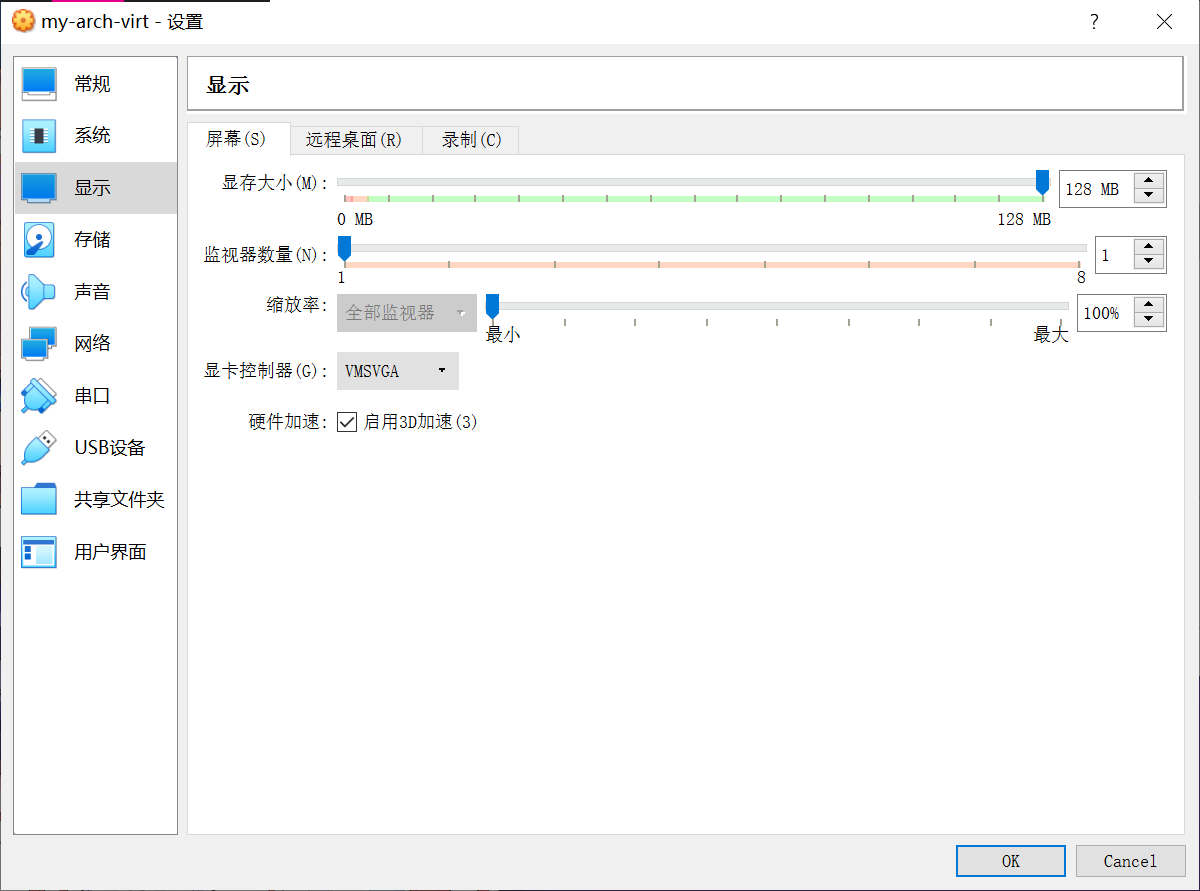
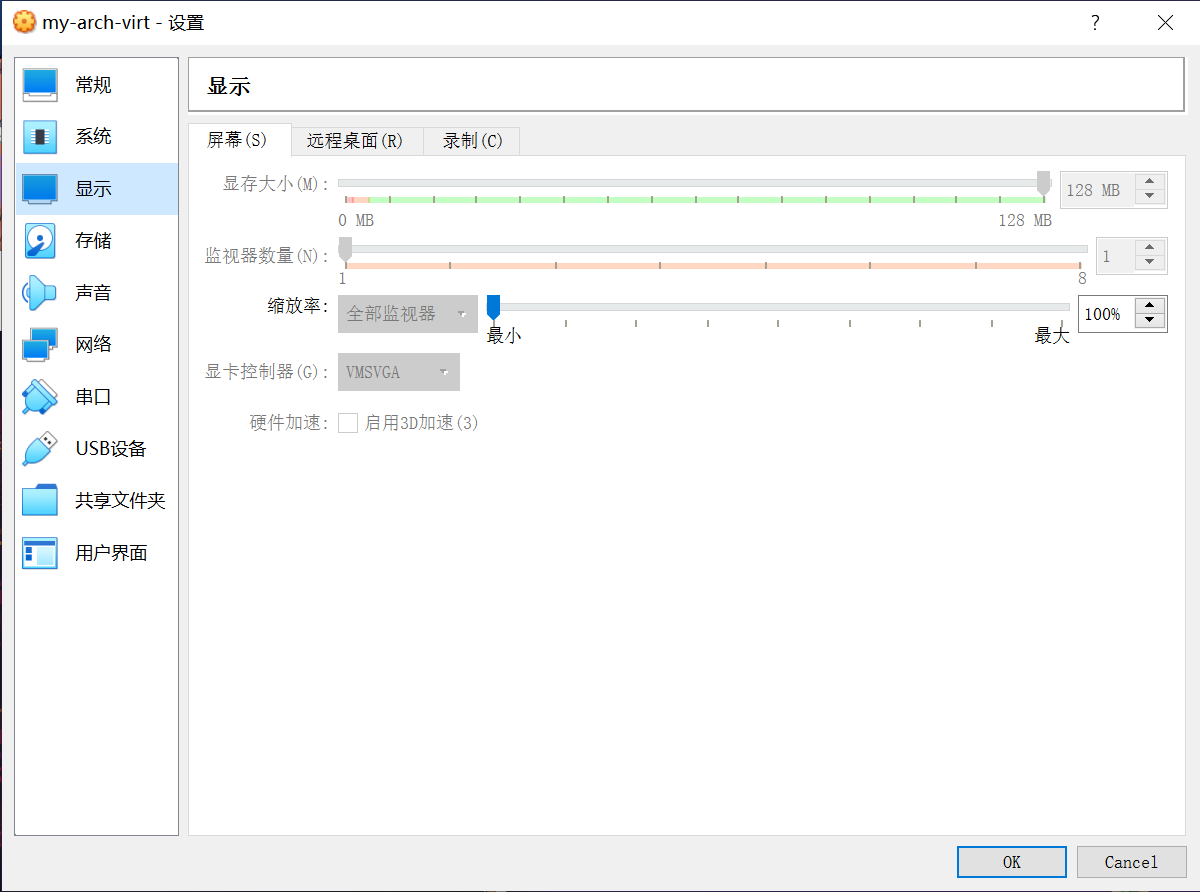
update

diff --git a/docs/.vuepress/styles/index.scss b/docs/.vuepress/styles/index.scss
@@ -22,7 +22,7 @@
   --c-text-light: #3a5169;
   --c-text-lighter: #4e6e8e;
   --c-text-lightest: #6a8bad;
-  --c-text-quote: #999;
+  --c-text-quote: var(--c-text-light);
 
   // border colors
   --c-border: #eaecef;

diff --git a/docs/prepare/head-on-blow.md b/docs/prepare/head-on-blow.md
@@ -1,5 +1,6 @@
 ---
 prev: /prologue.md
+sidebarDepth: 2
 ---
 
 # archlinux 真的适合我吗？
@@ -12,9 +13,11 @@ prev: /prologue.md
 >
 > 1. 对于 Linux 萌新来说，archlinux 真的适合作为 TA 们的入门发行版吗？
 
+## 三大判断标准
+
 > 这里，笔者自作主张的设立了 3 个判断标准，按照重要程度排列
 
-## 判断标准之一：你是否具有一定的 Linux 基础？
+### 判断标准之一：你是否具有一定的 Linux 基础？
 
 不少 Linux 萌新可能从不同渠道听过一种说法，那就是选择 archlinux 作为 TA 们的入门发行版。理由包括但不限于：
 
@@ -38,9 +41,11 @@ prev: /prologue.md
 >
 > 对于那些 `sudo` 命令输密码时看不到输出以为键盘坏了的，这些都是老生常谈了，就不多说了 QAQ
 
-## 判断标准之二：你是否愿意花费时间在折腾系统上？
+### 判断标准之二：你是否愿意花费时间在折腾系统上？
 
-archlinux 是简洁的操作系统。arch 将简洁定义为：避免任何不必要的添加、修改和复杂增加。这样做的好处显而易见：你可以自己决定使用哪种桌面环境、安装哪些组件和服务。这种精细化的控制能够赋予你一个精简的操作系统，可以让你自由选择所需的组件来构建属于你自己的系统。但也正因为此，配置 archlinux 相对于其它 Linux 发行版来说是繁琐。首先，安装 archlinux 需要在命令行手动输入至少 20 多条命令，并且要保证正确：
+archlinux 是简洁的操作系统。arch 将简洁定义为：避免任何不必要的添加、修改和复杂增加。这样做的好处显而易见：你可以自己决定使用哪种桌面环境、安装哪些组件和服务。这种精细化的控制能够赋予你一个精简的操作系统，可以让你自由选择所需的组件来构建属于你自己的系统。
+
+但也正因为此，配置 archlinux 相对于其它 Linux 发行版来说是繁琐。首先，安装 archlinux 需要在命令行手动输入至少 20 多条命令，并且要保证正确：
 
 ```bash
 systemctl stop reflector.service
@@ -83,7 +88,7 @@ reboot
 >
 > 不过对此也不用过于担心。本指南的目的之一就是为了减少不必要的排错成本。不少问题别人（包括笔者）也出现过，乐于助人的人也会将 TA 们的解决方法分享出来，何况还有 archlinux 开放、友好的强大社区生态呢！正所谓前人栽树后人乘凉嘛。
 
-## 判断标准之三：在遇到难以解决的复杂问题时，能否冷静应对？
+### 判断标准之三：在遇到难以解决的复杂问题时，能否冷静应对？
 
 archlinux 作为现代的滚动发行版，遇到问题是非常正常的。其中大部分问题经过简单排查便可解决，但也不排除遇到重大问题导致系统崩溃，无法进入桌面环境甚至系统。部分萌新的解决方法简单粗暴 —— 直接重装。这个方法可能确实有效，但是有多少人会经得起重新安装的折腾呢？多重装几次可能“心态就炸了”。
 

diff --git a/docs/rookie/beauty.md b/docs/rookie/beauty.md
@@ -1,15 +1,6 @@
-# 系统美化
+# archlinux 系统美化
 
-本文讲述如何配置以让 KDE 桌面环境看起来更加拥有美感。[配套视频](https://www.bilibili.com/video/BV1Ua4y157Qa/)  
-原则：美化不应该付出大量的时间折腾，既没有实际用处，也没有意义。花最少的时间完成性价比最高的美化始终是第一原则。  
-在美化部分，需要设置代理之后再使用`系统设置`的功能，如下载主题等。否则网速会非常慢，甚至无法使用。
-经测试，需通过 proxychains 或设置全局透明代理将网络连接重定向到代理。
-
-```bash
-proxychains systemsettings5 #通过代理打开系统设置
-```
-
-> 群主遇到过 KDE 相关软件更新前后，第三方主题不稳定/卡顿的问题，再次强调不要美化魔改的太过，这会添加更多的不确定性，让你的桌面稳定性下降。
+> ### 🌺 爱美之心，人皆有之
 
 ## 壁纸
 

diff --git a/docs/rookie/basic-install-detail.md b/docs/rookie/basic-install-detail.md
@@ -8,14 +8,16 @@
 
 > ### 🔖 这一节将会讨论：
 >
-> 1. 安装基础的 archlinux 系统详解
+> 1. 分区和格式化相关话题
+> 2. 理解 archlinux 安装过程
+> 3. 其它杂七杂八的说明
 
 ## 💾 分区和格式化
 
 > 1. 因本指南介绍使用的文件系统是 `Btrfs`，很多萌新可能有些不理解。这里有必要说明一下
 > 2. 若**执意要用传统的 `ext4` 文件系统**，本指南也给出了示例
 > 3. 对于全盘格式化后**全新安装**的（单 archlinux 系统）同学，这里也给出了需要做的额外步骤的说明
-> 4. 对于 **Swap 分区还是 Swap File** 的话题，也会在此讨论
+> 4. 对于 **Swap 分区还是 Swap 文件** 的话题，也会在此讨论
 
 ### 💾 为什么要用 Btrfs 文件系统
 

diff --git a/docs/rookie/pre-virt.md b/docs/rookie/pre-virt.md
@@ -83,6 +83,12 @@ VirtualBox 安装包同样可以在开源镜像站（推荐）或者 [VirtualBox
 
 10. `处理器数量` 和 `显存大小` 可做适当调整
 
+::: warning ⚠ 注意
+
+请不要在 `硬件加速` 中勾选 `启用3D加速`。否则会导致安装好桌面环境后无法进入桌面，只有黑屏和光标。如有需要可以参阅 [archWiki 相关说明](<https://wiki.archlinux.org/title/VirtualBox_(%E7%AE%80%E4%BD%93%E4%B8%AD%E6%96%87)#Arch_Linux_guest%E8%99%9A%E6%8B%9F%E6%9C%BA%E4%B8%AD%E6%B2%A1%E6%9C%89%E7%A1%AC%E4%BB%B63D%E5%8A%A0%E9%80%9F>)。
+
+:::
+
 ![Configure-vb_step-12](../static/rookie/pre-virt_vb-12.png)
 
 11. 在侧栏 `网络` > `网卡 1` > 将 `连接方式` 改为 `桥接网卡`

diff --git a/docs/rookie/pre-install.md b/docs/rookie/pre-install.md
@@ -147,7 +147,7 @@ sudo dd bs=4M if=/path/to/archlinux.iso of=/dev/sdx status=progress oflag=sync
 >
 > 有少数恶心的主板里面，`Secure Boot` 被设置为开启，却不存在关闭它的选项，但系统主板内置有 windows 系统的公钥证书签名，使其只能加载 windows，其它系统（包括 archlinux）一律不予加载。用户不能关闭它，还没法换系统，实在让人无语 😶
 >
-> 如果你正好是这样的电脑，emmm... 不妨在虚拟机里试下 archlinux 吧！
+> 如果你正好是这样的电脑，emmm... 不妨在虚拟机里尝试下 archlinux 吧！
 
 ## 7. 调整启动方式为 UEFI（可能不需要）
 

diff --git a/docs/rookie/graphic-driver.md b/docs/rookie/graphic-driver.md
@@ -1,4 +1,4 @@
-# 显卡驱动
+# archlinux 显卡驱动
 
 现在是 2021 年，显卡驱动的安装在 Arch Linux 上已经变得非常容易。本文区分核芯显卡和独立显卡两大类描述显卡驱动的安装。
 
